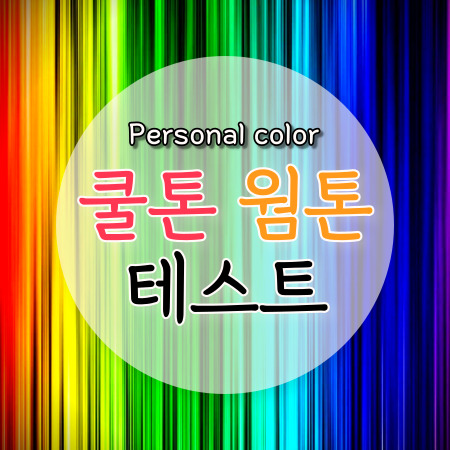
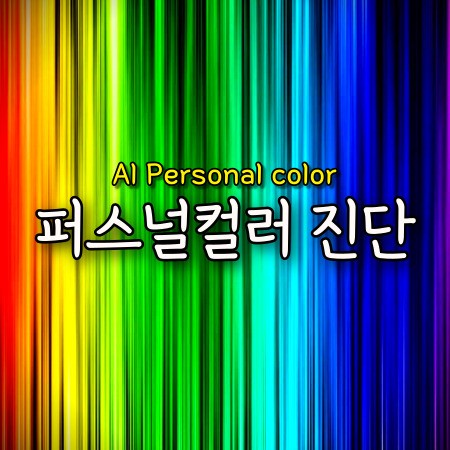
rename

diff --git a/enjoy/index.html b/enjoy/index.html
@@ -123,7 +123,7 @@
               </div>
               <div class="enjoy_content">
                 <span class="badge_hot">HOT</span>
-                <h3>쿨톤 웜톤 테스트</h3>
+                <h3>AI 퍼스널컬러 진단</h3>
                 <p>#퍼스널 컬러 #쿨톤 웜톤</p>
               </div>
             </a>
@@ -163,7 +163,7 @@
                 <div class="enjoy_img"></div>
               </div>
               <div class="enjoy_content">
-                <h3>쿨톤 웜톤 테스트</h3>
+                <h3>AI 퍼스널컬러 진단</h3>
                 <p>#퍼스널 컬러 #쿨톤 웜톤</p>
               </div>
             </a>

diff --git a/enjoy/style.css b/enjoy/style.css
@@ -66,7 +66,7 @@
     left: 22%;
 }
 .popular_wrap .enjoy_content h3{
-    font-size: 1.5rem;
+    font-size: 1.4rem;
 }
 .popular_wrap .enjoy_content p{
    font-size: 1rem;
@@ -100,7 +100,7 @@
         padding: 0.6rem 1.2rem 0.3rem 1.1rem;
     }
     .popular_wrap .enjoy_content h3{
-        font-size: 2.7rem;
+        font-size: 2.6rem;
     }
     .popular_wrap .enjoy_content p{
        font-size: 2rem;
